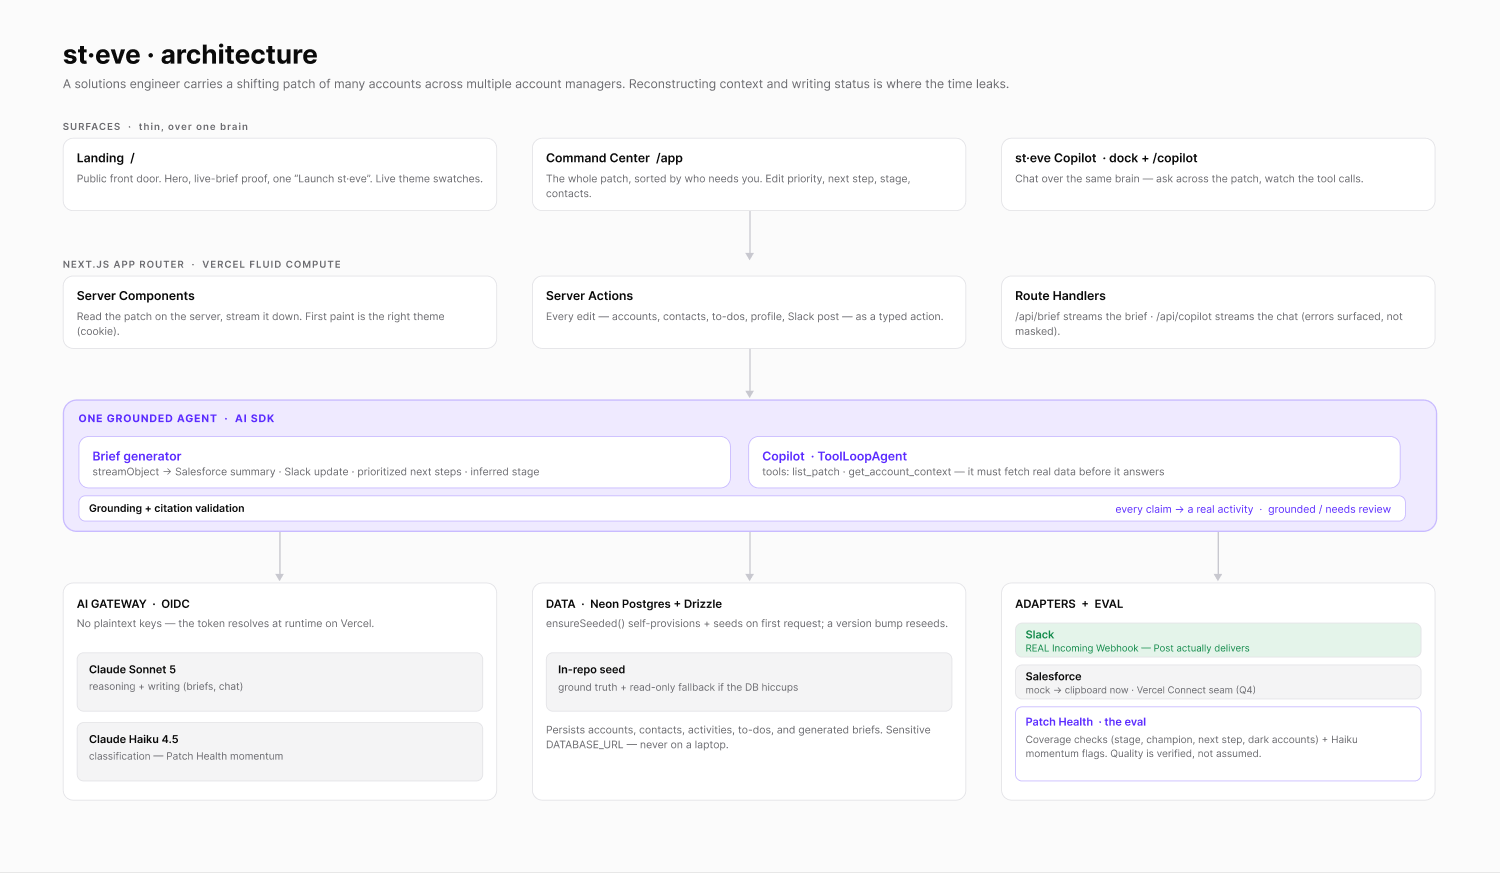
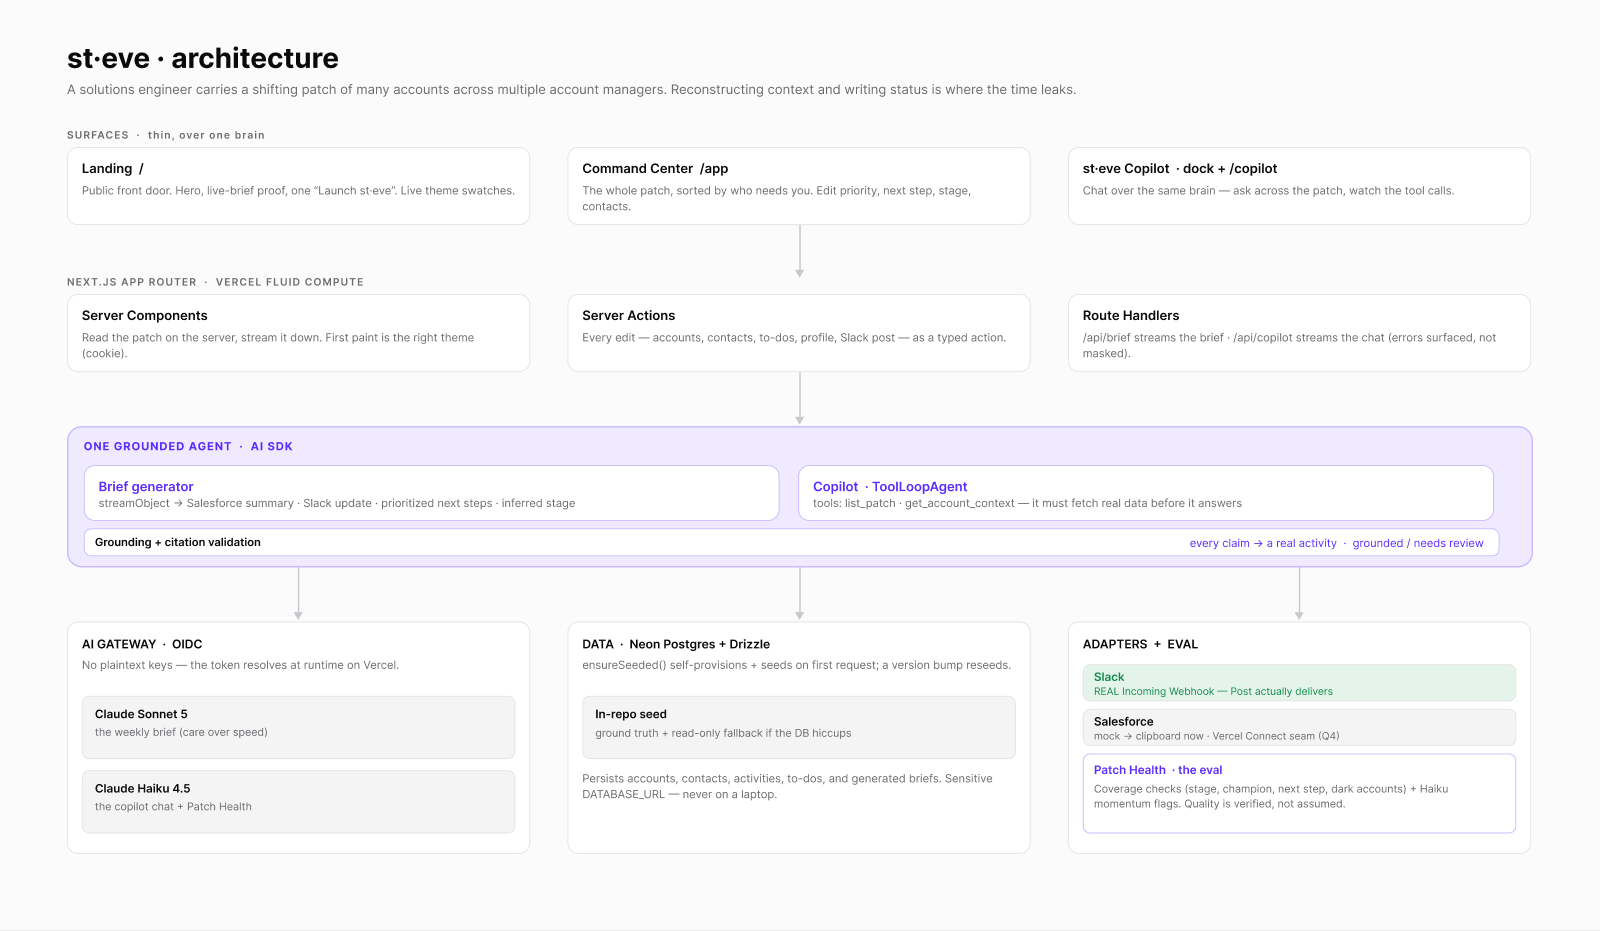
Update the model-routing note and refresh the architecture diagram
Reflects the per-task routing: Sonnet 5 for the weekly brief, Haiku 4.5 for the
fast copilot chat and the Patch Health classification (Gemini Flash a one-line
swap once there are gateway credits).

diff --git a/README.md b/README.md
@@ -32,7 +32,7 @@ The full, editable diagram lives in [Figma](https://www.figma.com/design/oNqoh4w
 
 - **Next.js 16 (App Router)** on Fluid Compute. The read surfaces are server components that stream, and briefs, edits, and the health check run through server actions and route handlers (`/api/brief`, `/api/copilot`).
 - **AI SDK v7** for the agent. The brief streams as a structured object (`streamObject`), and the copilot is a `ToolLoopAgent` with read-only tools. Same brain, two surfaces.
-- **AI Gateway with tiered Claude.** Sonnet 5 reasons and writes, Haiku 4.5 does the cheap classification in Patch Health. One string per model, and provider failover comes for free.
+- **AI Gateway, routed per task.** Sonnet 5 writes the weekly brief, where care matters more than speed. Haiku 4.5 runs the copilot chat and the Patch Health classification, where a fast, cheap reply matters more. Swapping any of them (say, Gemini Flash for the chat once there are gateway credits) is one line, and provider failover comes for free.
 - **Neon Postgres + Drizzle** hold the live patch, contacts, to-dos, and generated briefs. The demo data is a versioned synthetic seed of real Vercel customers with believable sales motions, so it's deterministic and it doubles as Patch Health's pinned ground truth. The app provisions and seeds Neon itself on the first request, so there's nothing to run by hand.
 - **Adapters** keep integrations behind one seam. Slack is a real Incoming Webhook. The Salesforce write-back is the documented Vercel Connect seam, and for now the UI just copies the summary to your clipboard.
 